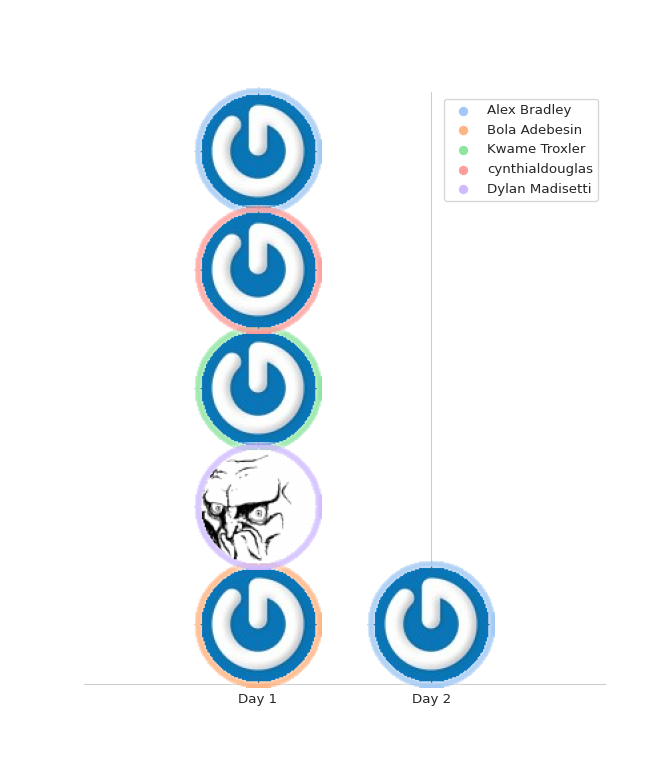
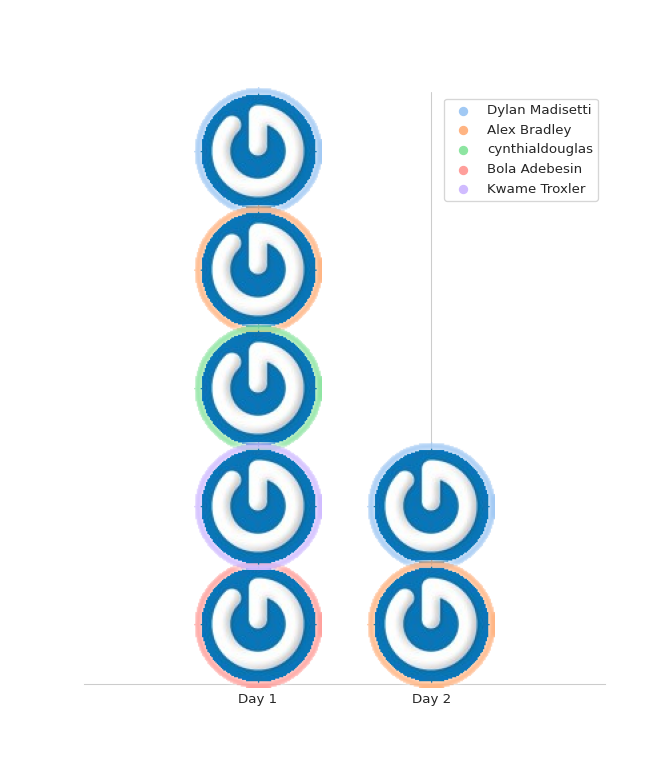
Allow for overloading options to normalize emails names etc..:w

diff --git a/100DaysOfCode_Dylan/code_tracker/cache.py b/100DaysOfCode_Dylan/code_tracker/cache.py
@@ -1,5 +1,6 @@
 import os
 import json
+from typing import Optional
 
 from python_git_wrapper import Repository, GitError
 
@@ -11,32 +12,37 @@ class Cache(object):
 
     __slots__ = ["_cache_location", "_json"]
 
-    def __init__(self, cache_location: str):
+    def __init__(self,
+                 cache_location: str,
+                 override_location: Optional[str] = None):
         self._cache_location = cache_location
-        self._json = Cache._get_cache(cache_location)
+        self._json = Cache._get_cache(cache_location, override_location)
 
     def update(self, repository: Repository):
         for commit in self.walk_commit(repository):
-            if commit.author not in self.commits:
-                self.commits[commit.author] = []
-            print(commit.author, commit.hash, commit.message, commit.datetime)
+            author = commit.author
+            if author in self.alias:
+                author = self.alias[author]
+            if author not in self.commits:
+                self.commits[author] = []
             self.visited.append(commit.hash)
-            self.commits[commit.author].append(str(commit.datetime.date()))
-            self.authors[commit.author] = commit.email
+            self.commits[author].append(str(commit.datetime.date()))
+            if author not in self.authors:
+                self.authors[author] = commit.email
+            print(author, commit.hash, commit.message, commit.datetime)
 
     def dump(self):
         with open(self._cache_location, "w") as cache:
             return json.dump(self._json, cache, sort_keys=True, indent=4)
 
     def walk_commit(self, repository: Repository):
-        visited = set(repository.get_commit(visited) for visited in self.visited)
+        visited = set(
+            repository.get_commit(visited) for visited in self.visited)
         search = set([repository.last_commit]) - visited
-        print(search, repository.last_commit)
         while search:
             commit = search.pop()
             search |= set(commit.parents) - visited
             visited.add(commit)
-            print("**", commit.author, commit.hash, commit.message, commit.datetime)
             if (MERGE_STRING not in commit.message
                     and README_STRING not in commit.message):
                 yield commit
@@ -49,9 +55,15 @@ class Cache(object):
         return self._json[key]
 
     @staticmethod
-    def _get_cache(cache_location: str):
-        if not os.path.exists(cache_location):
-            return {"visited": [], "commits": {}, "authors": {}}
+    def _get_cache(cache_location: str,
+                   override_location: Optional[str] = None):
 
-        with open(cache_location) as cache:
-            return json.load(cache)
+        data = {"visited": [], "commits": {}, "authors": {}, "alias": {}}
+        if os.path.exists(cache_location):
+            with open(cache_location) as cache:
+                data = json.load(cache)
+        if override_location:
+            with open(override_location) as override_location:
+                data.update(json.load(override_location))
+
+        return data

diff --git a/100DaysOfCode_Dylan/code_tracker/__main__.py b/100DaysOfCode_Dylan/code_tracker/__main__.py
@@ -19,16 +19,19 @@ flags.DEFINE_string(
                            "recomputed."),
     short_name='c')
 flags.DEFINE_string(
-    "image",
-    "track.png", ("Resultant image location."),
-    short_name='i')
+    "override",
+    "tracker_overrides.json",
+    ("Override files that will overwrite the details in the cache file."),
+    short_name='o')
+flags.DEFINE_string(
+    "image", "track.png", ("Resultant image location."), short_name='i')
 
 
 def main(unused: List[str]):
     del unused
     repository = Repository(FLAGS.repository)
 
-    cache = Cache(FLAGS.cache)
+    cache = Cache(FLAGS.cache, FLAGS.override)
     cache.update(repository)
     cache.dump()
 
